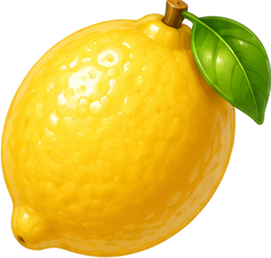
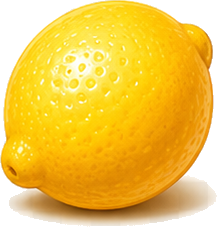
feat(art): 接入原型配套资产, 玩法画面对齐原型
- 水果换成原型同款(基础水果资产)
- 木箱换成开口木箱(场景结构资产)+ 水果裁剪在箱内
- 下一个改用木质漏斗 + 动态水果叠加
- 道具换成真图标(洗牌/锤子/磁铁/彩虹果)+ 木质按钮底座
- 加入果摊背景装饰
- 合成特效改用 合成! 徽章 + 火花(burst)
- 通用精灵特效系统(imgKey+缩放淡出)
- 金币/生命/齿轮换成配套图标

diff --git a/js/game.js b/js/game.js
@@ -28,7 +28,10 @@
     TIERS.forEach(f => add(f.key, `assets/fruits/${f.key}.png`));
     ['rainbow', 'bomb', 'slice', 'rainbow_blast', 'bomb_blast', 'slice_blast']
       .forEach(k => add(k, `assets/special/${k}.png`));
-    add('crate', 'assets/props/crate.png');
+    add('crate', 'assets/scene/crate.png');
+    add('stand', 'assets/scene/stand.png');
+    add('hecheng', 'assets/scene/hecheng.png');
+    add('swirl', 'assets/scene/swirl.png');
   }
   function fruitIcon(tier, cls = 'fruit-ico') {
     return `<img class="${cls}" src="assets/fruits/${TIERS[tier].key}.png" alt="">`;
@@ -133,7 +136,7 @@
       const gap = rMax * 2.25;
       const cols = Math.max(3, Math.floor(b.w / gap));
       const cw = b.w / cols;
-      const rows = 3;
+      const rows = 2;
       let k = 0;
       for (let row = 0; row < rows; row++) {
         for (let col = 0; col < cols; col++) {
@@ -246,13 +249,14 @@
       this.score += gain;
 
       this.spawnParticles({ x: mx, y: my, type: nt });
-      this.floatText('合成! +' + gain, mx, my);
+      this.spawnFx('burst', mx, my, { size: TIERS[nt].r * 4, life: 0.45, s0: 0.4, s1: 1.5 });
+      this.spawnFx('hecheng', mx, my - 6, { size: 120, life: 0.7, s0: 0.4, s1: 1.05, rise: 26 });
       if (this.combo >= 2) this.showCombo(this.combo);
 
       if (nt >= this.cfg.targetTier) {
         // 合成出目标水果 -> 收集
         this.progress = Math.min(this.cfg.need, this.progress + 1);
-        this.spawnBlast(mx, my, 'rainbow');
+        this.spawnFx('burst', mx, my, { size: 150, life: 0.6, s0: 0.5, s1: 1.8 });
         this.floatText('订单 +1', mx, my - 26);
         this.syncHud();
         if (this.progress >= this.cfg.need) { this.win(); return; }
@@ -371,7 +375,10 @@
       }
     }
     updateParticles(dt) { for (const p of this.particles) { p.t += dt; p.vy += 1200 * dt; p.x += p.vx * dt; p.y += p.vy * dt; } this.particles = this.particles.filter(p => p.t < p.life); }
-    spawnBlast(x, y, kind) { this.blasts.push({ x, y, kind, t: 0, life: 0.5 }); }
+    // 通用精灵特效: imgKey 指向 IMG, 从 s0 缩放到 s1 并淡出, 可上浮 rise 像素
+    spawnFx(imgKey, x, y, o = {}) {
+      this.blasts.push({ imgKey, x, y, t: 0, life: o.life || 0.5, size: o.size || 90, s0: o.s0 ?? 0.5, s1: o.s1 ?? 1.6, rise: o.rise || 0 });
+    }
     updateBlasts(dt) { for (const b of this.blasts) b.t += dt; this.blasts = this.blasts.filter(b => b.t < b.life); }
     floatText(txt, x, y) {
       const el = document.createElement('div'); el.className = 'float-score'; el.textContent = txt;
@@ -384,27 +391,46 @@
     // ---------- 渲染 ----------
     render() {
       ctx.clearRect(0, 0, W, H);
+      this.drawScenery();
       this.drawBox();
       this.drawDangerLine();
+      // 水果裁剪在箱体内 (上方留空让落下的水果可见, 下方不溢出前壁)
+      const b = this.box;
+      ctx.save();
+      ctx.beginPath();
+      ctx.rect(b.x - 4, b.y - 100, b.w + 8, b.h + 100);
+      ctx.clip();
       const bodies = this.world ? this.world.bodies : [];
       for (const o of bodies) this.drawFruitShadow(o);
       for (const o of bodies) this.drawFruit(o);
+      ctx.restore();
       this.drawBlasts();
       this.drawParticles();
       if (this.running && !this.ended) this.drawAimer();
     }
 
+    // 背景装饰 (果摊) — 画在画布上, 位于 HUD 之下
+    drawScenery() {
+      const stand = IMG['stand'];
+      if (stand && stand.complete && stand.naturalWidth) {
+        const w = W * 0.42, s = w / stand.naturalWidth;
+        ctx.save(); ctx.globalAlpha = 0.96;
+        ctx.drawImage(stand, W - w + 10, this.box.y - stand.naturalHeight * s * 0.62, w, stand.naturalHeight * s);
+        ctx.restore();
+      }
+    }
+
     drawBox() {
       const b = this.box, crate = IMG['crate'];
       ctx.save();
-      // 深色内壁 (水果落在其中; 也作图未载入时回退)
+      // 深色内壁 (回退; 大部分被木箱图盖住)
       const grad = ctx.createLinearGradient(0, b.y, 0, b.y + b.h);
       grad.addColorStop(0, '#6b4a30'); grad.addColorStop(1, '#523823');
       ctx.fillStyle = grad;
-      roundRect(ctx, b.x, b.y, b.w, b.h, 18); ctx.fill();
+      roundRect(ctx, b.x + b.w * 0.04, b.y + b.h * 0.06, b.w * 0.92, b.h * 0.9, 14); ctx.fill();
       if (crate && crate.complete && crate.naturalWidth) {
-        // 木箱图框在玩法区四周 (壁在外侧, 开口对齐内壁)
-        const wx = b.w * 0.16, wt = b.h * 0.12, wb = b.h * 0.22;
+        // 开口木箱: 内部开口对齐玩法区
+        const wx = b.w * 0.10, wt = b.h * 0.10, wb = b.h * 0.12;
         ctx.drawImage(crate, b.x - wx, b.y - wt, b.w + wx * 2, b.h + wt + wb);
       }
       ctx.restore();
@@ -468,11 +494,14 @@
 
     drawBlasts() {
       for (const b of this.blasts) {
-        const img = IMG[b.kind + '_blast']; if (!img || !img.complete || !img.naturalWidth) continue;
-        const p = b.t / b.life, scale = 0.5 + p * 1.4, size = 90 * scale;
-        ctx.save(); ctx.globalAlpha = Math.max(0, 1 - p);
+        const img = IMG[b.imgKey]; if (!img || !img.complete || !img.naturalWidth) continue;
+        const p = b.t / b.life;
+        const scale = b.s0 + (b.s1 - b.s0) * p;
+        const size = b.size * scale;
+        const alpha = p < 0.2 ? p / 0.2 : 1 - (p - 0.2) / 0.8; // 快入慢出
+        ctx.save(); ctx.globalAlpha = Math.max(0, alpha);
         const iw = img.naturalWidth, ih = img.naturalHeight, s = size / Math.max(iw, ih);
-        ctx.drawImage(img, b.x - iw * s / 2, b.y - ih * s / 2, iw * s, ih * s); ctx.restore();
+        ctx.drawImage(img, b.x - iw * s / 2, b.y - b.rise * p - ih * s / 2, iw * s, ih * s); ctx.restore();
       }
     }
     drawParticles() {

diff --git a/css/style.css b/css/style.css
@@ -98,18 +98,15 @@ html, body {
 }
 
 .next-card {
-  width: 78px; text-align: center; position: relative;
-  background: linear-gradient(#caa06a,#a87a48);
-  border-radius: 12px; padding: 4px 4px 0;
-  box-shadow: 0 3px 6px rgba(0,0,0,.2);
+  position: relative; width: 84px; height: 112px; text-align: center;
+  display: flex; align-items: flex-start; justify-content: center;
 }
-.nc-title { font-size: 12px; font-weight: 800; color: #fff3d6; }
-.nc-fruit { height: 46px; display: flex; align-items: center; justify-content: center; }
-.nc-fruit img { height: 42px; width: auto; }
-.nc-funnel {
-  height: 14px; margin: 0 auto;
-  border-left: 14px solid transparent; border-right: 14px solid transparent;
-  border-top: 14px solid #8a5f38; width: 30px;
+.nc-funnel-img {
+  width: 84px; height: auto; filter: drop-shadow(0 3px 5px rgba(0,0,0,.3));
+}
+.nc-next {
+  position: absolute; top: 38%; left: 50%; transform: translate(-50%,-50%);
+  width: 34px; height: auto;
 }
 
 .combo-card {
@@ -160,17 +157,17 @@ html, body {
 }
 .tool-btn {
   position: relative; border: none; cursor: pointer;
-  width: 64px; height: 64px; border-radius: 16px;
-  background: linear-gradient(#fff,#ffe9c2);
-  box-shadow: 0 4px 0 #d9a85a, 0 6px 8px rgba(0,0,0,.2);
+  width: 66px; height: 66px; padding: 0; background: transparent;
+  background-image: url("../assets/tool/btnbase.png");
+  background-size: 100% 100%; background-repeat: no-repeat;
   display: flex; flex-direction: column; align-items: center; justify-content: center;
-  transition: transform .08s;
+  filter: drop-shadow(0 4px 4px rgba(0,0,0,.25)); transition: transform .08s;
 }
-.tool-btn:active { transform: translateY(3px); box-shadow: 0 1px 0 #d9a85a; }
-.tool-btn.active { outline: 3px solid #5ad06a; }
+.tool-btn:active { transform: translateY(3px); }
+.tool-btn.active { filter: drop-shadow(0 0 6px #5ad06a) drop-shadow(0 0 6px #5ad06a); }
 .tool-btn.depleted { filter: grayscale(.7) opacity(.6); }
-.tool-ico { font-size: 26px; }
-.tool-name { font-size: 11px; font-weight: 700; color: #8a6a3a; }
+.tool-ico { width: 34px; height: 34px; object-fit: contain; margin-top: 2px; }
+.tool-name { font-size: 11px; font-weight: 800; color: #8a6a3a; margin-top: -1px; }
 .tool-badge {
   position: absolute; top: -6px; right: -6px;
   background: #4aa83a; color: #fff; font-size: 11px; font-weight: 800;

diff --git a/index.html b/index.html
@@ -29,9 +29,8 @@
         </div>
 
         <div class="next-card">
-          <div class="nc-title">下一个</div>
-          <div class="nc-fruit"><img id="next-fruit" src="" alt=""></div>
-          <div class="nc-funnel"></div>
+          <img class="nc-funnel-img" src="assets/scene/funnel.png" alt="">
+          <img id="next-fruit" class="nc-next" src="" alt="">
         </div>
 
         <div class="combo-card">
@@ -46,19 +45,19 @@
 
       <div class="tools-bar">
         <button class="tool-btn" data-tool="shuffle">
-          <span class="tool-ico">🔀</span><span class="tool-name">洗牌</span>
+          <img class="tool-ico" src="assets/tool/shuffle.png" alt=""><span class="tool-name">洗牌</span>
           <span class="tool-badge">3</span>
         </button>
         <button class="tool-btn" data-tool="hammer">
-          <span class="tool-ico">🔨</span><span class="tool-name">锤子</span>
+          <img class="tool-ico" src="assets/tool/hammer.png" alt=""><span class="tool-name">锤子</span>
           <span class="tool-badge">3</span>
         </button>
         <button class="tool-btn" data-tool="magnet">
-          <span class="tool-ico">🧲</span><span class="tool-name">磁铁</span>
+          <img class="tool-ico" src="assets/tool/magnet.png" alt=""><span class="tool-name">磁铁</span>
           <span class="tool-badge">3</span>
         </button>
         <button class="tool-btn" data-tool="rainbow">
-          <span class="tool-ico">🌈</span><span class="tool-name">彩虹果</span>
+          <img class="tool-ico" src="assets/tool/rainbow.png" alt=""><span class="tool-name">彩虹果</span>
           <span class="tool-badge">3</span>
         </button>
       </div>
